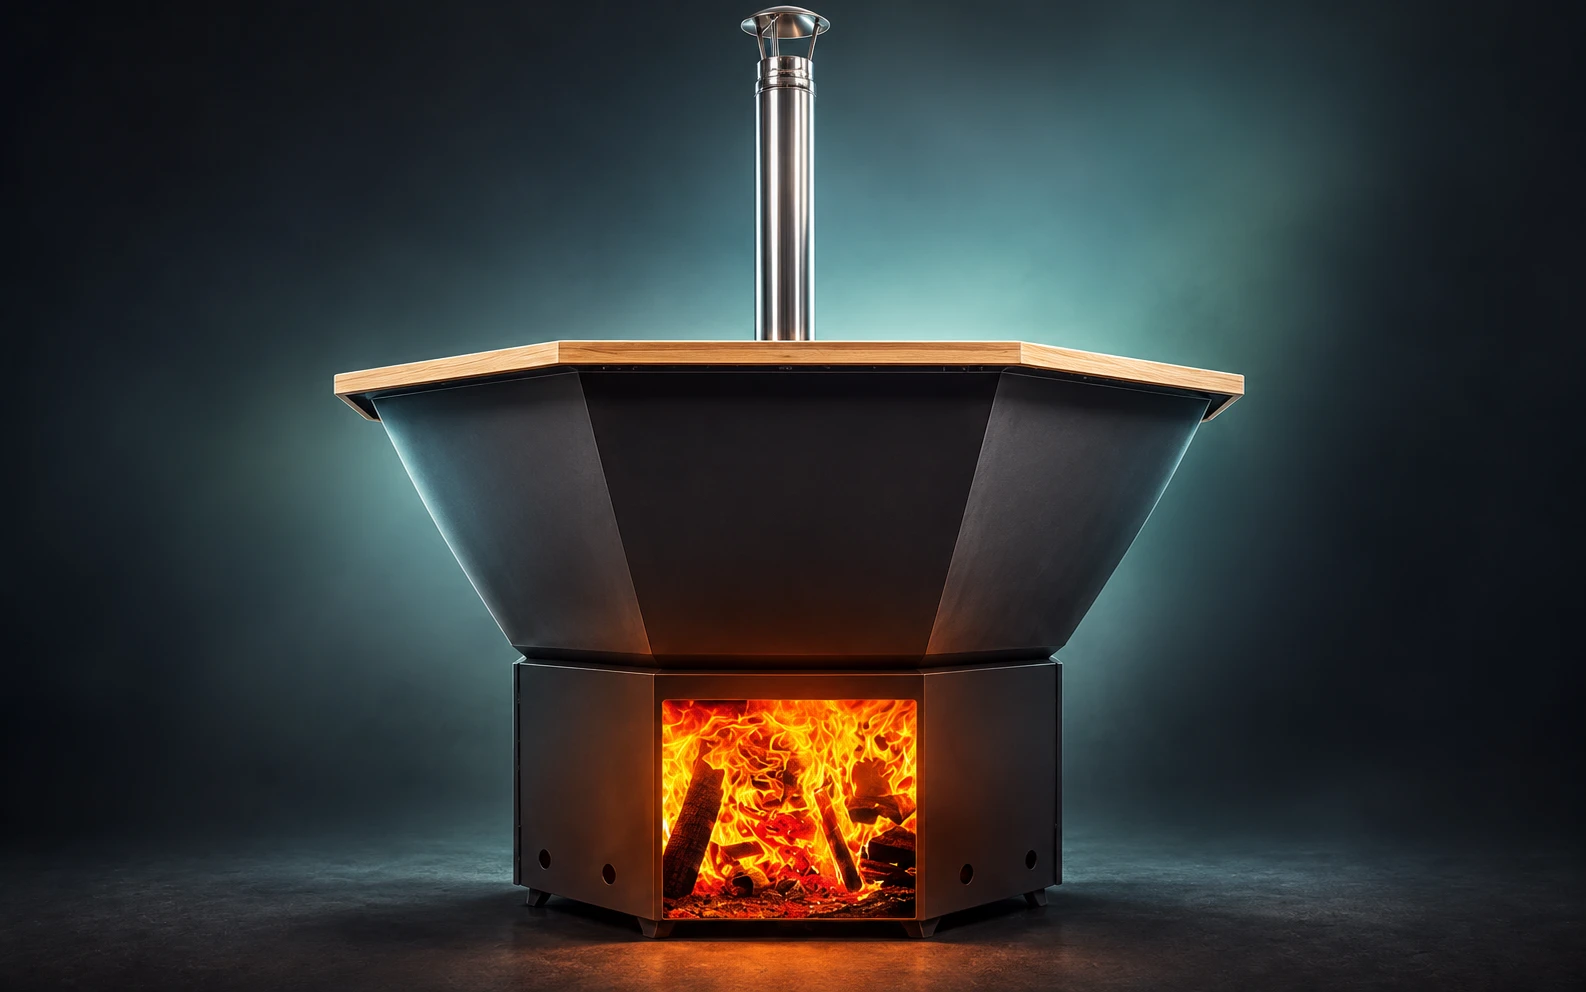
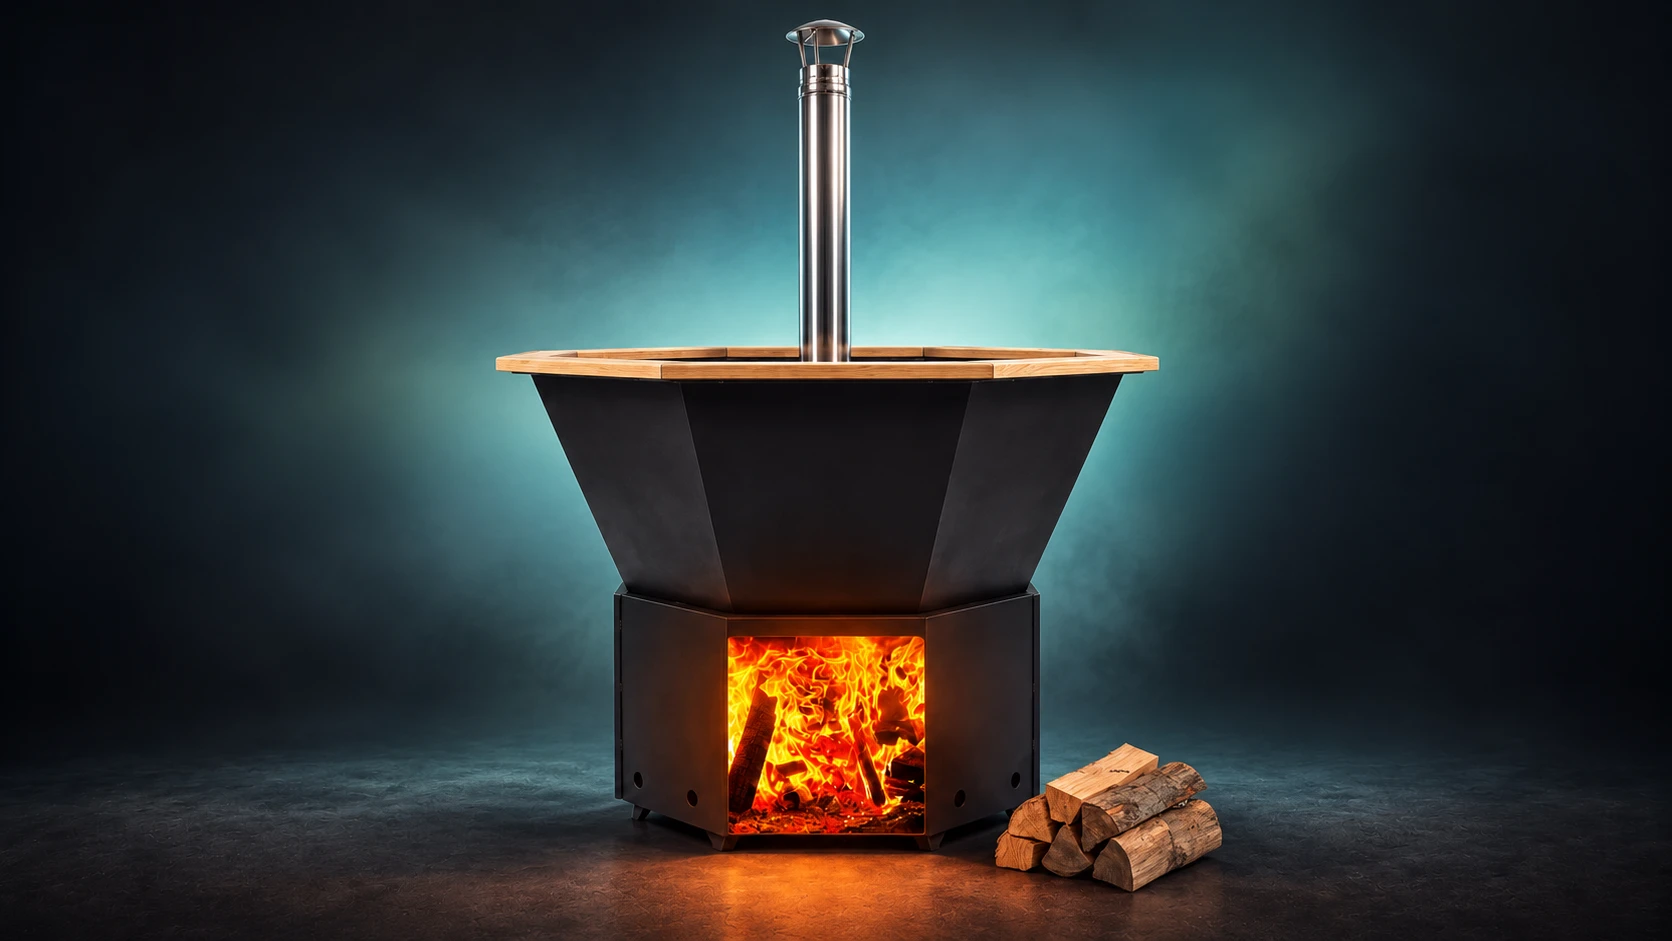
Replace the Графит photograph
The client's new shot: the windscreen lit, the firewood beside it, on the
same teal backdrop. Its sides are cropped in and a little floor taken off
the bottom, and the glow behind the hero takes its colour from the new
frame. The pinned scale held — the other six models came out on exactly
the widths they already had.

Claude-Session: https://claude.ai/code/session_01TguMyRvyZftt8ueoPbGrxp

diff --git a/src/data/models.ts b/src/data/models.ts
@@ -151,7 +151,7 @@ export const models: Model[] = [
     ],
     // Only the model page's own hero: the home page and the catalogue card
     // are waiting for their own shots.
-    photos: { hero: 'grafit-hero.webp', heroWidth: 0.626, heroTone: '#181f26' },
+    photos: { hero: 'grafit-hero.webp', heroWidth: 0.596, heroTone: '#263b44' },
     includes: [...commonIncludes, 'Ветрозащита без дна', 'Дымоход 3 м и защитный экран'],
     seoTitle: 'Банный чан «Графит»',
     seoDescription:

diff --git a/scripts/normalise-hero-photos.py b/scripts/normalise-hero-photos.py
@@ -36,7 +36,7 @@ DST = 'public/photos'
 # Cropping the right-hand side also carries the product further right on the
 # page, since the shot is anchored to the right edge.
 SHOTS = {
-    'grafit':           dict(left=0.00, right=1.00, rim=(0.120, 0.780), boost=1.18),
+    'grafit':           dict(left=0.20, right=0.82, rim=(0.290, 0.720), bottom=0.04, boost=1.18),
     'valtsovavich':     dict(left=0.16, right=0.72, rim=(0.405, 0.685), top=0.12, bottom=0.08),
     'cherny-brilliant': dict(left=0.22, right=0.84, rim=(0.300, 0.720)),
     'nefrit':           dict(left=0.20, right=0.80, rim=(0.290, 0.710)),
